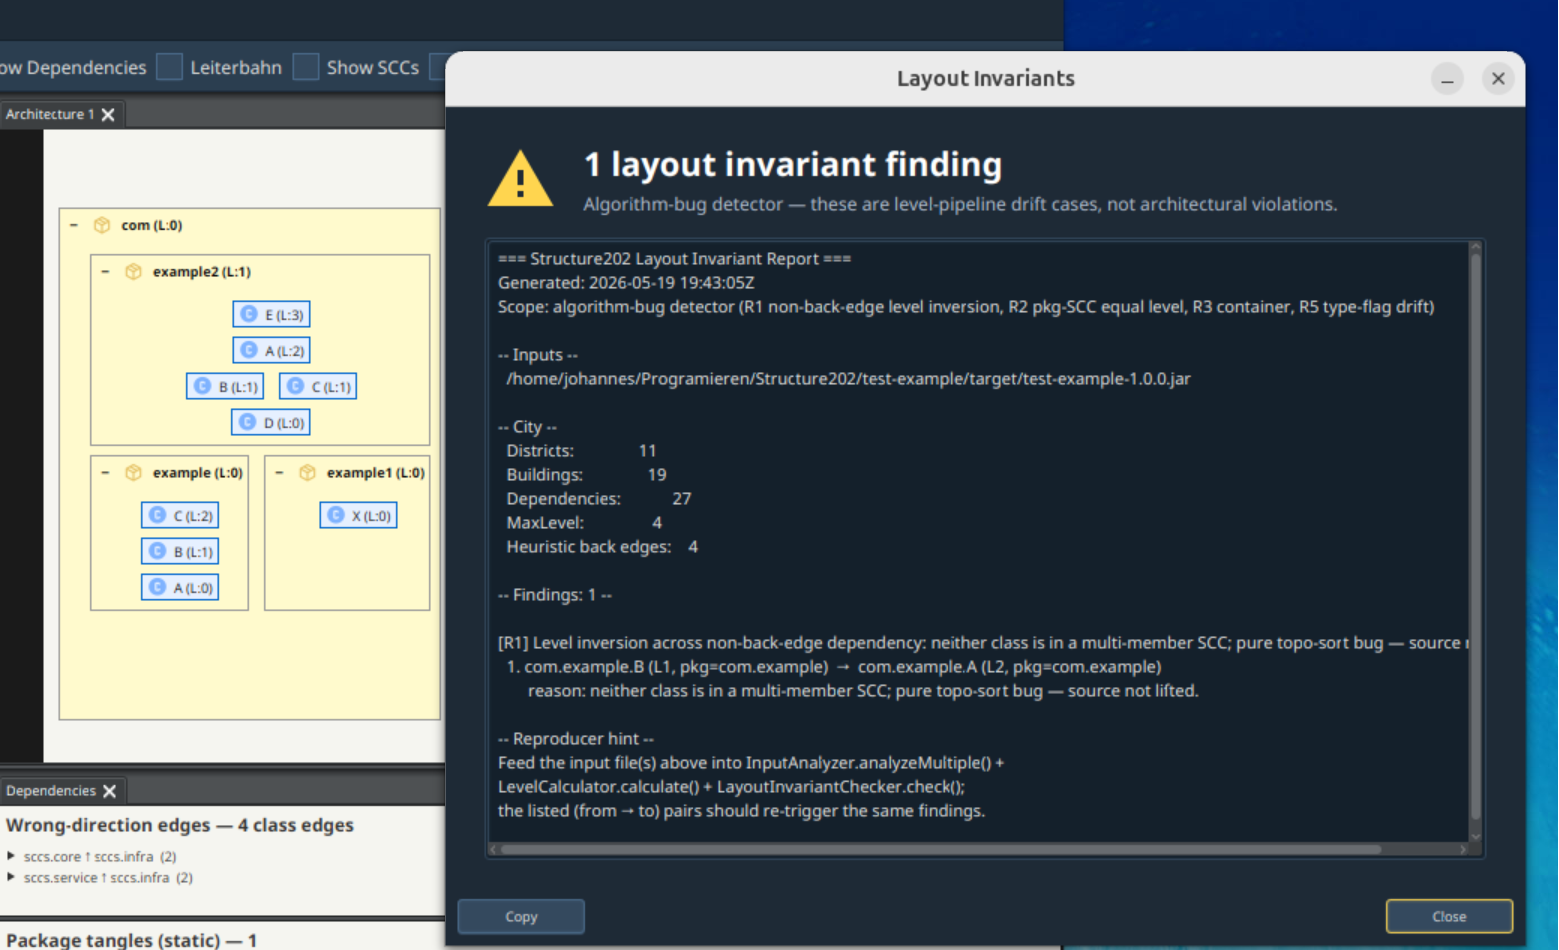
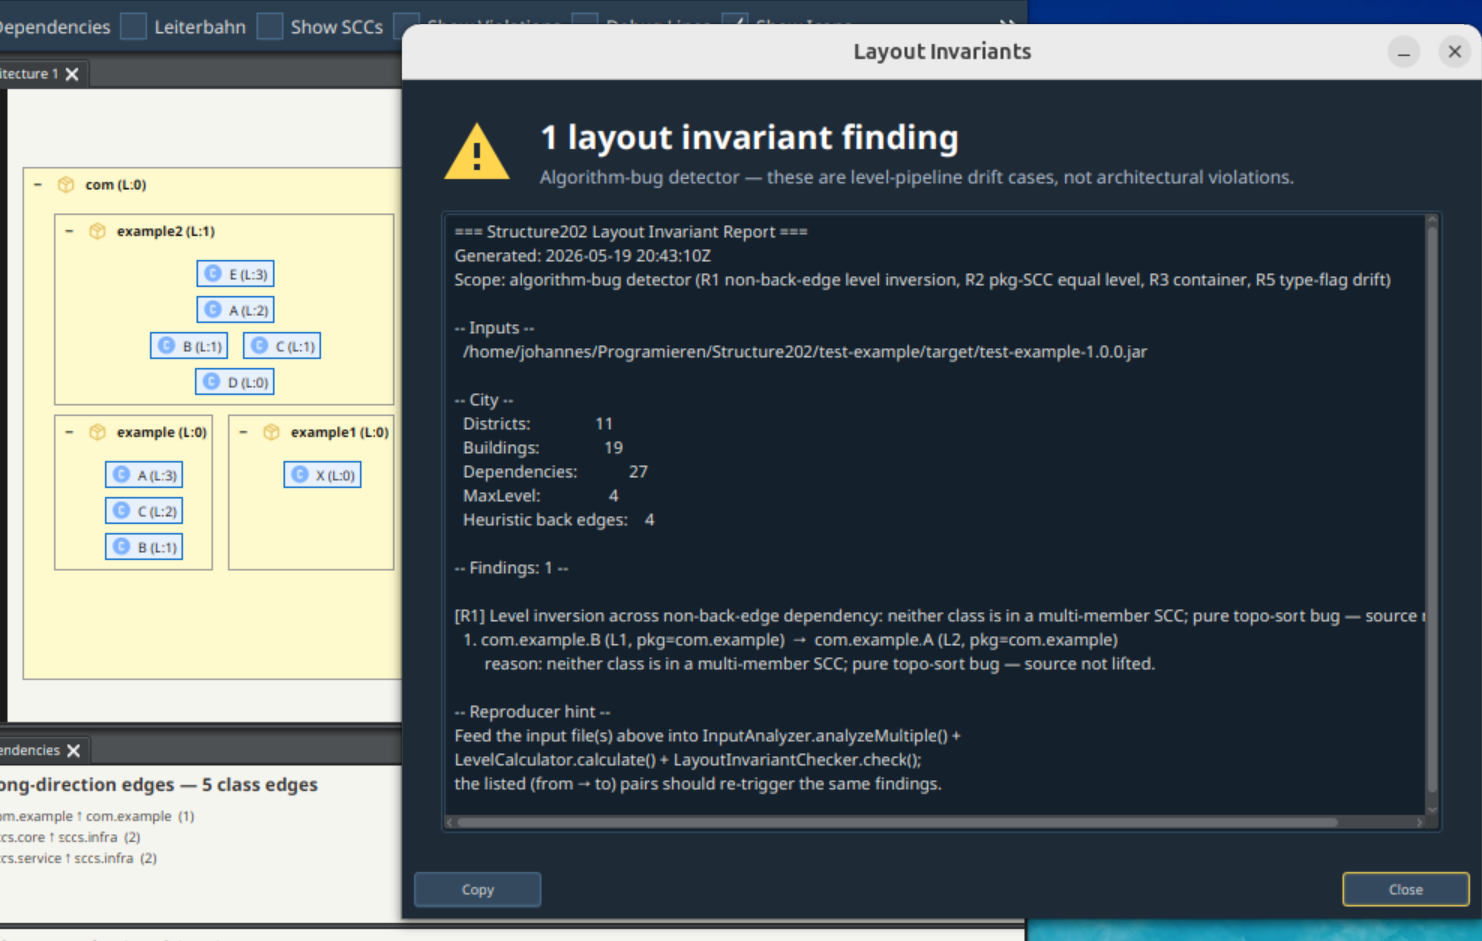
Refine bird's-eye rendering description; make demo bug visible in UI
Follow-up to Draft V4 after another Philippsen pass:

- Move "Where the arrows come from" after Figure 1 so it references the
  picture directly; figure 1 now arrives right after the phases list with
  a one-sentence bridge.
- Drop the spurious HEURISTIC_CUT arrow class. The code's EdgeType only
  has NORMAL / VIOLATION / INTRA_SCC; heuristic back-edges surface as
  plain VIOLATION arrows, the SCC-breaker keeps its own bookkeeping for
  the checker.
- Correct the rendering styles: NORMAL = thin solid (suppressed by
  default; shown in the left panel of Fig 1), VIOLATION = dashed + bold,
  INTRA_SCC = red when the SCC overlay is enabled. README, QUICKSTART
  and FIGURES_TODO follow.
- Update the figure 1 caption to note that the NORMAL toggle was turned
  on for the left panel to make the layered structure visible.
- "Phases 1-3" -> "Phases 1-4" where Figure 1 is described, since the
  picture shows the full pipeline including the horizontal arrangement.
- Move the DEMO_ALERT_INJECTION block to after Step 6 and patch both
  architectureLevel and localLevel for com.example.A, so the visible
  layout reorders A above C AND the invariant checker fires on the
  archLvl inconsistency. Tests stay green without the property (194/194
  pass).
- Refresh Finding-R1-Wrong-Direction.png with the new visible-bug
  screenshot.

diff --git a/docs/latex/ICSOFT_2026_ABSTRACT_EN.tex b/docs/latex/ICSOFT_2026_ABSTRACT_EN.tex
@@ -176,23 +176,58 @@ minimum-violation arrangement, and no resorting after the fact.
         and is deliberately excluded from the layout invariants.
 \end{itemize}
 
-\paragraph{Where the arrows come from.} The arrows in the view are not
-produced by the four pipeline phases. They are the class-to-class
-dependencies extracted from the bytecode in the very first analysis
-step, long before any level is computed. Phases~1--3 decide \emph{where
-the boxes go}; the renderer then simply draws an arrow from each source
-box to each target box. Every arrow falls into one of four classes,
-assigned by the pipeline before rendering:
+Figure~\ref{fig:s202-deps-overview} shows the result of Phases~1--4 on
+two example projects: an acyclic test JAR (left) and a cyclic real-world
+subsystem (right). The next paragraph explains what the arrows in those
+panels mean; the paragraph after that explains how the invariants relate
+to them.
+
+\begin{figure}[H]
+  \centering
+  \includegraphics[width=0.95\textwidth]{figures/S202-Dependencies.png}
+  \caption{The S202 ArchitectureView with class and package boxes.
+    \textbf{Left:} an acyclic situation taken from the test JAR
+    (\texttt{com.example.\ldots}) --- no upward edges, no alerts; the
+    downward \texttt{NORMAL} arrows that are normally suppressed have
+    been turned on here to make the layered structure visible.
+    \textbf{Right:} a real-world cycle between \texttt{core}, \texttt{infra}
+    and \texttt{service}; the remaining upward edges trigger R1-visual
+    alerts that flag concrete architecture violations.}
+  \label{fig:s202-deps-overview}
+\end{figure}
+
+\paragraph{Where the arrows come from.} The arrows visible in
+Figure~\ref{fig:s202-deps-overview} are not produced by the four pipeline
+phases. They are the class-to-class dependencies extracted from the
+bytecode in the very first analysis step, long before any level is
+computed. Phases~1--4 decide \emph{where the boxes go}; the renderer then
+simply draws an arrow from each source box to each target box. By default
+the renderer suppresses downward \texttt{NORMAL} arrows, so the eye is
+drawn to upward edges and explicit cuts; the left panel of
+Figure~\ref{fig:s202-deps-overview} has that toggle turned on, which is
+why every downward dependency is visible there. The renderer distinguishes
+three arrow classes (\texttt{EdgeType} in the code):
 \begin{itemize}\setlength{\itemsep}{1pt}
-  \item \texttt{NORMAL} -- source box ends up above target box (downward arrow);
-  \item \texttt{VIOLATION} -- source box ends up below target box even though
-        the edge was not cut (upward arrow, drawn red);
+  \item \texttt{NORMAL} -- source box ends up above target box (thin solid
+        downward arrow; hidden in the default view, visible in the left
+        panel of Figure~\ref{fig:s202-deps-overview});
+  \item \texttt{VIOLATION} -- source box ends up below target box (upward
+        arrow, drawn dashed and bold; visible by default);
   \item \texttt{INTRA\_SCC} -- both endpoints sit in the same cyclic group
-        (sideways arrow within a peer level);
-  \item \texttt{HEURISTIC\_CUT} -- the edge was explicitly removed by the
-        SCC-breaker to obtain a usable hierarchy (also drawn red, but as a
-        deliberate cut, not a finding).
+        (peer-level arrow, drawn red when the user enables the SCC overlay,
+        otherwise suppressed).
 \end{itemize}
+After the SCC-breaker removes a back-edge to obtain a usable hierarchy, the
+endpoints end up at different architecture levels in the resulting DAG; the
+removed back-edge then runs against that hierarchy and the classifier
+labels it as a plain \texttt{VIOLATION}. The SCC-breaker keeps its own
+bookkeeping of which violations are deliberate cuts, so the invariant
+checker can suppress them when judging algorithmic correctness, but the
+arrow in the picture is visually indistinguishable from a real violation.
+At the package level the same three classes apply, but inter-package edges
+are bundled and labelled with a filled circle that carries the aggregated
+call count, so the diagram does not drown in one line per class reference.
+
 The five invariants then \emph{read} the placed boxes and the classified
 arrows. They do not change either; they only check that the two agree
 with the architecture data and with each other. Concretely, R1-algo and
@@ -209,31 +244,12 @@ drives further iteration. Four of them (R1-algo, R2, R3, R5) are
 pipeline-defect alerts that never fire on a correct run; the fifth
 (R1-visual) fires when a remaining upward arrow points to a real
 architecture violation. Every visible upward arrow in the resulting
-drawing is therefore one of three things: an architecture violation
-(\texttt{VIOLATION}, raising an R1-visual alert), an explicit
-\texttt{HEURISTIC\_CUT}, or an \texttt{INTRA\_SCC} edge that could not be
-broken without contradicting the package architecture --- never an
-accidental artifact of the layout algorithm.
-
-\begin{figure}[H]
-  \centering
-  \includegraphics[width=0.95\textwidth]{figures/S202-Dependencies.png}
-  \caption{The S202 ArchitectureView with class and package boxes.
-    \textbf{Left:} an acyclic situation taken from the test JAR
-    (\texttt{com.example.\ldots}) --- no upward edges, no alerts.
-    \textbf{Right:} a real-world cycle between \texttt{core}, \texttt{infra}
-    and \texttt{service}; the remaining upward edges trigger R1-visual
-    alerts that flag concrete architecture violations.}
-  \label{fig:s202-deps-overview}
-\end{figure}
-
-Figure~\ref{fig:s202-deps-overview} shows the two layout regimes the
-pipeline has to handle. Left: an acyclic test project, where every
-dependency points downward and the architecture reads at a glance.
-Right: a real-world cycle between \texttt{core}, \texttt{infra} and
-\texttt{service}, where the remaining upward edges are exactly the
-architecturally interesting findings that the R1-visual alert surfaces
-rather than hides.
+drawing is therefore either a \texttt{VIOLATION} (raising an R1-visual
+alert -- which is further divided in the SCC-breaker's bookkeeping into
+a real architectural finding or a deliberate heuristic cut) or, when the
+SCC overlay is on, an \texttt{INTRA\_SCC} edge that could not be broken
+without contradicting the package architecture --- never an accidental
+artifact of the layout algorithm.
 
 \begin{figure}[H]
   \centering
@@ -550,7 +566,8 @@ SCC and are assigned the same level.
 
 The important distinction is transparency. Many tools break cycles implicitly,
 but S202 classifies heuristic cut edges explicitly. They are marked as
-\texttt{VIOLATION}, rendered in red, and known to the invariant checker. This
+\texttt{VIOLATION}, rendered as a bold dashed upward arrow, and known to the
+invariant checker. This
 makes algorithmic defects separable from tolerated heuristic artifacts.
 
 \subsection*{The Solution: Three Computed Values on Independent Graphs}

diff --git a/analyzer/src/main/java/de/weigend/s202/domain/architecture/LevelCalculator.java b/analyzer/src/main/java/de/weigend/s202/domain/architecture/LevelCalculator.java
@@ -88,23 +88,6 @@ public class LevelCalculator {
         // Step 3: Compute class levels
         calculateClassLevels(model);
 
-        // ---- DEMO_ALERT_INJECTION (review demo for M. Philippsen, 2026-05-19) ----
-        // When system property s202.demo.injectAlert=true, deliberately corrupt
-        // the architecture level of com.example.A so R1-algo fires when
-        // test-example is loaded. The local layout (which uses localLevel, not
-        // architectureLevel) is unaffected, so the visualization still shows
-        // C above B above A as expected -- but the implausibility alert dialog
-        // opens and reports the inconsistency. Tests run without the property
-        // and stay green. Remove this block once the demo session is over.
-        if (Boolean.getBoolean("s202.demo.injectAlert")) {
-            DomainModel.CalculatedElementInfo demoA = model.getClass("com.example.A");
-            DomainModel.CalculatedElementInfo demoC = model.getClass("com.example.C");
-            if (demoA != null && demoC != null) {
-                demoA.setArchitectureLevel(demoC.architectureLevel);
-            }
-        }
-        // ---- END DEMO_ALERT_INJECTION ----
-
         // Step 4: Compute package levels from weighted inter-package graph.
         calculatePackageLevels(model, rawModel);
 
@@ -115,6 +98,24 @@ public class LevelCalculator {
         // global architectureLevel, used by the renderer to position
         // siblings within each parent's box.
         new LocalLevelCalculator().assign(model, rawModel);
+
+        // ---- DEMO_ALERT_INJECTION (review demo for M. Philippsen, 2026-05-19) ----
+        // When system property s202.demo.injectAlert=true, deliberately corrupt
+        // both the architecture level and the local level of com.example.A so
+        // the bug is visible in the UI (A is rendered above C, even though
+        // B depends on A and C depends on B) AND the layout-invariant checker
+        // catches the inconsistency, popping up the implausibility alert
+        // dialog. Tests run without the property and stay green. Remove this
+        // block once the demo session is over.
+        if (Boolean.getBoolean("s202.demo.injectAlert")) {
+            DomainModel.CalculatedElementInfo demoA = model.getClass("com.example.A");
+            DomainModel.CalculatedElementInfo demoC = model.getClass("com.example.C");
+            if (demoA != null && demoC != null) {
+                demoA.setArchitectureLevel(demoC.architectureLevel);
+                demoA.setLocalLevel(demoC.localLevel + 1);
+            }
+        }
+        // ---- END DEMO_ALERT_INJECTION ----
 
         return model;
     }

diff --git a/docs/latex/FIGURES_TODO.md b/docs/latex/FIGURES_TODO.md
@@ -17,11 +17,11 @@
 ### Fig 2 -- Minecraft Forge: Big Lake vs. aufgelöste Hierarchie
 - **Was:** Zwei Screenshots nebeneinander
   - Links: ohne SCC-Breaker — 4.038 Klassen auf einem flachen Level (der "See")
-  - Rechts: mit SCC-Breaker — nutzbare Schichtung, rote Violation-Kanten sichtbar
+  - Rechts: mit SCC-Breaker — nutzbare Schichtung, fett-gestrichelte Violation-Kanten sichtbar
 - **Wo in Structure202:** Minecraft Forge Projekt, SCC-Breaker ein-/ausschalten
 - **Caption-Entwurf:** "Minecraft Forge without the SCC breaker (left): over 40% of
   classes collapse onto a single level. With the breaker (right): a usable
-  hierarchy emerges; heuristic cut edges are rendered as violations (red)."
+  hierarchy emerges; heuristic cut edges are rendered as violations (bold dashed)."
 
 ---
 
@@ -60,5 +60,5 @@
 ## Technische Hinweise
 - Format: PNG, mind. 150 dpi für Print
 - Breite: bei zwei nebeneinander je ~0.48\textwidth
-- Rote Violation-Kanten bei Minecraft gut sichtbar machen (ggf. Zoom)
+- Fett-gestrichelte Violation-Kanten bei Minecraft gut sichtbar machen (ggf. Zoom)
 - Draft-Subtitle im Titel vor Einreichung entfernen

diff --git a/QUICKSTART.md b/QUICKSTART.md
@@ -36,7 +36,7 @@ mvn javafx:run
 | **Open JAR / Maven / Gradle** | JARs einzeln oder ganze Multi-Modul-Projekte laden |
 | **Package Tree** | Hierarchische Paket-Ansicht |
 | **Level-Layout** | Pakete nach Abhängigkeitstiefe sortiert |
-| **Violations** | Rote Linien zeigen architektonische Probleme |
+| **Violations** | Fette gestrichelte Pfeile zeigen architektonische Probleme (Paket-Aggregate mit gefülltem Kreis für die Aufrufanzahl) |
 | **Invariant Check** | Fünf Invarianten als Plausibilitäts-Alerts; vier melden Algorithmus-Bugs in der Level-Pipeline, R1-visual zeigt echte Architekturverletzungen |
 
 ## Level-Bedeutung

diff --git a/README.md b/README.md
@@ -57,7 +57,7 @@ analyzer/src/main/java/de/weigend/s202/
 1. **Code laden**: Über `File → Open JAR…` einzelne JARs, `Open Maven Project…` oder `Open Gradle Project…` ganze Multi-Modul-Bauten
 2. **Analyse**: Pakete und Klassen werden automatisch analysiert; ein Layout-Invariant-Check meldet Plausibilitäts-Alerts an den Entwickler
 3. **Navigation**: Pakete auf-/zuklappen, Abhängigkeiten einsehen
-4. **Violations**: Rote gestrichelte Linien zeigen architektonische Probleme; bei Pipeline-Bugs öffnet sich ein Reproducer-Dialog mit Copy-Button
+4. **Violations**: Fette gestrichelte Pfeile zeigen architektonische Probleme (bei Paketen mit einem gefüllten Kreis, der die Anzahl der Aufrufe bündelt); bei Pipeline-Bugs öffnet sich ein Reproducer-Dialog mit Copy-Button
 
 ## VS Code Integration
 